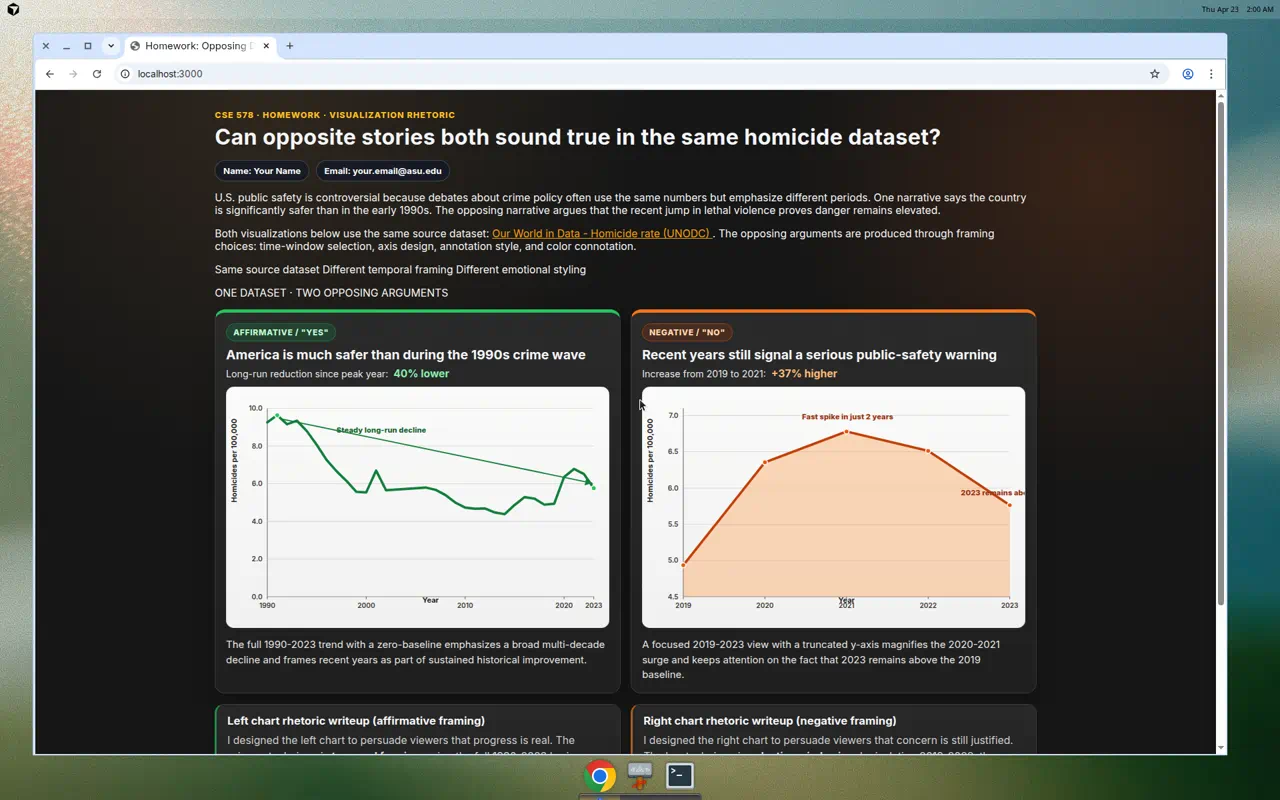
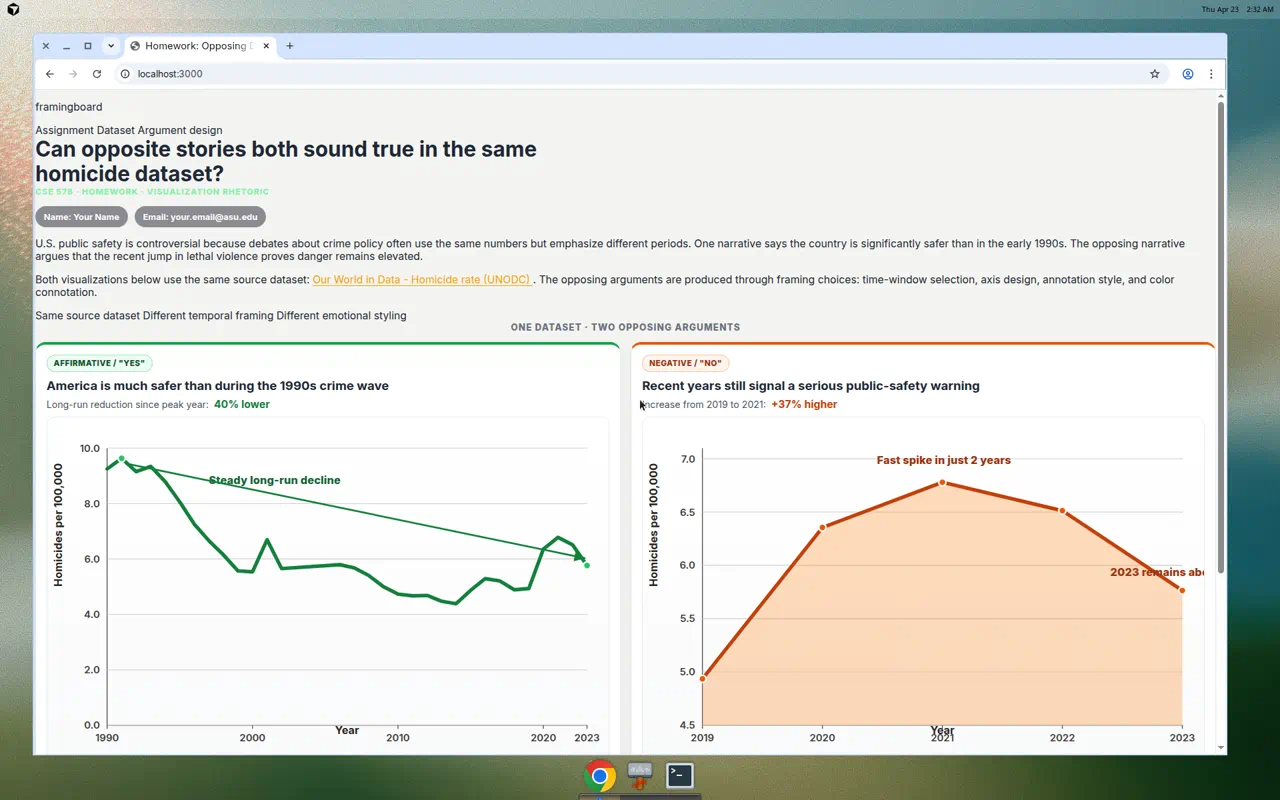
Restyle page with natural rounded UI design

diff --git a/styles.css b/styles.css
@@ -3,17 +3,18 @@
 }
 
 :root {
-  --bg: #161616;
-  --panel: #1f1f1f;
-  --panel-light: #2a2a2a;
-  --text: #f3f4f6;
-  --muted: #cdcdcd;
-  --border: #3b3b3b;
-  --yes: #22c55e;
-  --yes-soft: rgba(34, 197, 94, 0.16);
+  --page-bg: #f4f4f1;
+  --shell-bg: #ffffff;
+  --hero-bg: #17152e;
+  --hero-text: #eef0f6;
+  --text: #1f2937;
+  --muted: #5f6776;
+  --border: #e3e5ea;
+  --yes: #16a34a;
+  --yes-soft: #ecfdf3;
   --yes-strong: #166534;
-  --no: #f97316;
-  --no-soft: rgba(249, 115, 22, 0.18);
+  --no: #ea580c;
+  --no-soft: #fff4ed;
   --no-strong: #9a3412;
 }
 
@@ -21,44 +22,48 @@ body {
   margin: 0;
   font-family: "Inter", "Segoe UI", Arial, sans-serif;
   color: var(--text);
-  background:
-    radial-gradient(circle at 20% 0%, #2f271e 0%, transparent 30%),
-    radial-gradient(circle at 90% 10%, #3a2418 0%, transparent 24%),
-    var(--bg);
+  background: var(--page-bg);
 }
 
 .page {
-  max-width: 1300px;
-  margin: 0 auto;
-  padding: 30px 24px 40px;
+  max-width: 1120px;
+  margin: 18px auto;
+  padding: 10px;
+}
+
+.assignment-shell {
+  background: var(--shell-bg);
+  border: 1px solid #dcdfe6;
+  border-radius: 24px;
+  overflow: hidden;
+  box-shadow: 0 16px 38px rgba(18, 24, 40, 0.12);
 }
 
 .hero {
-  background: linear-gradient(145deg, rgba(42, 42, 42, 0.96), rgba(24, 24, 24, 0.96));
-  border: 1px solid var(--border);
-  border-radius: 18px;
-  padding: 24px 24px 22px;
-  box-shadow: 0 16px 34px rgba(0, 0, 0, 0.25);
+  background: var(--hero-bg);
+  color: var(--hero-text);
+  padding: 28px 34px 30px;
 }
 
 .assignment-tag {
   margin: 0 0 8px;
-  font-size: 0.8rem;
+  font-size: 0.78rem;
   letter-spacing: 0.08em;
   text-transform: uppercase;
-  color: #fbbf24;
+  color: #86efac;
   font-weight: 800;
 }
 
 h1 {
   margin: 0;
-  font-size: 2.05rem;
-  letter-spacing: 0.01em;
+  font-size: 2rem;
+  letter-spacing: 0;
   line-height: 1.2;
+  max-width: 820px;
 }
 
 .student-meta-row {
-  margin: 14px 0 6px;
+  margin: 14px 0 10px;
   display: flex;
   gap: 10px;
   flex-wrap: wrap;
@@ -68,21 +73,23 @@ h1 {
   display: inline-block;
   border-radius: 999px;
   padding: 7px 12px;
-  font-size: 0.84rem;
+  font-size: 0.82rem;
   font-weight: 700;
-  color: #f8fafc;
-  border: 1px solid rgba(148, 163, 184, 0.35);
-  background: rgba(15, 23, 42, 0.65);
+  color: #ffffff;
+  border: 1px solid rgba(148, 163, 184, 0.42);
+  background: rgba(10, 12, 28, 0.45);
 }
 
 .hero p {
-  margin: 10px 0;
-  line-height: 1.55;
-  color: #e7e5e4;
+  margin: 9px 0;
+  line-height: 1.6;
+  max-width: 920px;
+  color: #d7dcec;
 }
 
 a {
   color: #f59e0b;
+  text-underline-offset: 3px;
 }
 
 .framing-strip {
@@ -93,29 +100,42 @@ a {
 }
 
 .framing-chip {
-  font-size: 0.83rem;
+  font-size: 0.8rem;
   font-weight: 700;
-  letter-spacing: 0.02em;
+  letter-spacing: 0.01em;
   border-radius: 999px;
   padding: 7px 11px;
   border: 1px solid rgba(148, 163, 184, 0.32);
-  background: rgba(15, 23, 42, 0.6);
-  color: #f3f4f6;
+  background: rgba(255, 255, 255, 0.08);
+  color: #eef2ff;
+}
+
+.content-wrap {
+  padding: 24px 24px 26px;
+}
+
+.comparison-divider {
+  margin: 0 0 14px;
+  text-align: center;
+  color: #6b7280;
+  font-size: 0.86rem;
+  font-weight: 800;
+  letter-spacing: 0.08em;
 }
 
 .charts-row {
-  margin-top: 16px;
+  margin-top: 0;
   display: grid;
   grid-template-columns: 1fr 1fr;
   gap: 16px;
 }
 
 .chart-card {
-  background: linear-gradient(180deg, var(--panel-light), var(--panel));
+  background: #ffffff;
   border: 1px solid var(--border);
   border-radius: 16px;
   padding: 16px;
-  box-shadow: 0 14px 30px rgba(0, 0, 0, 0.2);
+  box-shadow: 0 6px 16px rgba(17, 24, 39, 0.06);
 }
 
 .chart-header {
@@ -128,42 +148,43 @@ a {
   width: fit-content;
   border-radius: 999px;
   padding: 5px 10px;
-  font-size: 0.77rem;
+  font-size: 0.75rem;
   font-weight: 800;
-  letter-spacing: 0.05em;
+  letter-spacing: 0.04em;
   text-transform: uppercase;
 }
 
 .support .side-badge {
-  color: #bbf7d0;
-  border: 1px solid rgba(34, 197, 94, 0.35);
-  background: rgba(21, 128, 61, 0.28);
+  color: #14532d;
+  border: 1px solid rgba(22, 163, 74, 0.35);
+  background: var(--yes-soft);
 }
 
 .oppose .side-badge {
-  color: #fed7aa;
-  border: 1px solid rgba(249, 115, 22, 0.35);
-  background: rgba(154, 52, 18, 0.28);
+  color: #9a3412;
+  border: 1px solid rgba(234, 88, 12, 0.35);
+  background: var(--no-soft);
 }
 
 .chart-card h2 {
   margin: 0;
-  font-size: 1.24rem;
-  line-height: 1.3;
+  font-size: 1.18rem;
+  line-height: 1.32;
+  color: #1f2937;
 }
 
 .chart-card.support {
-  border-top: 6px solid var(--yes);
+  border-top: 5px solid var(--yes);
 }
 
 .chart-card.oppose {
-  border-top: 6px solid var(--no);
+  border-top: 5px solid var(--no);
 }
 
 .chart-kpi {
   margin: 6px 0 10px;
   font-size: 0.9rem;
-  color: #e5e7eb;
+  color: #4b5563;
 }
 
 .chart-kpi strong {
@@ -172,26 +193,26 @@ a {
 }
 
 .support .chart-kpi strong {
-  color: #86efac;
+  color: #15803d;
 }
 
 .oppose .chart-kpi strong {
-  color: #fdba74;
+  color: #c2410c;
 }
 
 .chart-svg {
   width: 100%;
   height: auto;
-  border: 1px solid rgba(148, 163, 184, 0.24);
+  border: 1px solid #e6e8ef;
   border-radius: 12px;
-  background: linear-gradient(180deg, #fafaf9 0%, #f1f1f1 100%);
+  background: linear-gradient(180deg, #ffffff 0%, #f9fafb 100%);
 }
 
 .caption {
   margin: 10px 0 0;
-  font-size: 0.95rem;
-  line-height: 1.5;
-  color: #e7e5e4;
+  font-size: 0.93rem;
+  line-height: 1.55;
+  color: #5f6776;
 }
 
 .writeups {
@@ -202,28 +223,29 @@ a {
 }
 
 .writeup-card {
-  background: linear-gradient(180deg, rgba(42, 42, 42, 0.96), rgba(22, 22, 22, 0.96));
+  background: #ffffff;
   border: 1px solid var(--border);
   border-radius: 14px;
   padding: 14px 16px;
 }
 
 .support-note {
-  border-left: 4px solid rgba(34, 197, 94, 0.65);
+  border-left: 4px solid rgba(22, 163, 74, 0.7);
 }
 
 .oppose-note {
-  border-left: 4px solid rgba(249, 115, 22, 0.65);
+  border-left: 4px solid rgba(234, 88, 12, 0.7);
 }
 
 .writeup-card h3 {
   margin: 0 0 8px;
-  font-size: 1.06rem;
+  font-size: 1.03rem;
+  color: #1f2937;
 }
 
 .writeup-card p {
   margin: 0 0 10px;
-  line-height: 1.52;
+  line-height: 1.56;
   color: var(--muted);
 }
 
@@ -315,11 +337,19 @@ a {
 
 @media (max-width: 980px) {
   h1 {
-    font-size: 1.7rem;
+    font-size: 1.56rem;
   }
 
   .charts-row,
   .writeups {
     grid-template-columns: 1fr;
+  }
+
+  .content-wrap {
+    padding: 18px 16px 20px;
+  }
+
+  .hero {
+    padding: 22px 16px 22px;
   }
 }

diff --git a/index.html b/index.html
@@ -10,10 +10,21 @@
   <link rel="stylesheet" href="./styles.css">
 </head>
 <body>
-  <main class="page">
-    <header class="assignment-header">
-      <p class="assignment-tag">CSE 578 · Homework · Visualization Rhetoric</p>
+  <main class="page-shell">
+    <header class="top-hero">
+      <div class="top-hero-nav">
+        <p class="brand">framingboard</p>
+        <div class="nav-pills" aria-label="Navigation styling">
+          <span class="nav-pill">Assignment</span>
+          <span class="nav-pill">Dataset</span>
+          <span class="nav-pill">Argument design</span>
+        </div>
+      </div>
       <h1>Can opposite stories both sound true in the same homicide dataset?</h1>
+      <p class="assignment-tag">CSE 578 · Homework · Visualization Rhetoric</p>
+    </header>
+
+    <section class="intro-card">
       <div class="student-meta-row" aria-label="Student information">
         <span class="meta-pill">Name: Your Name</span>
         <span class="meta-pill">Email: your.email@asu.edu</span>
@@ -37,7 +48,7 @@
         <span class="chip yes">Different temporal framing</span>
         <span class="chip no">Different emotional styling</span>
       </div>
-    </header>
+    </section>
 
     <p class="comparison-divider">ONE DATASET · TWO OPPOSING ARGUMENTS</p>
 
@@ -86,7 +97,7 @@
           the impression of steady improvement.
         </p>
         <p>
-          The cool blue palette and "recovery" language are deliberate
+          The calm green palette and "recovery" language are deliberate
           <strong>affective cues</strong> that reduce urgency. Endpoint and peak annotations create a
           memorable before/after comparison, making the argument persuasive by showing that present
           conditions look better than the high-violence era that many people remember.
